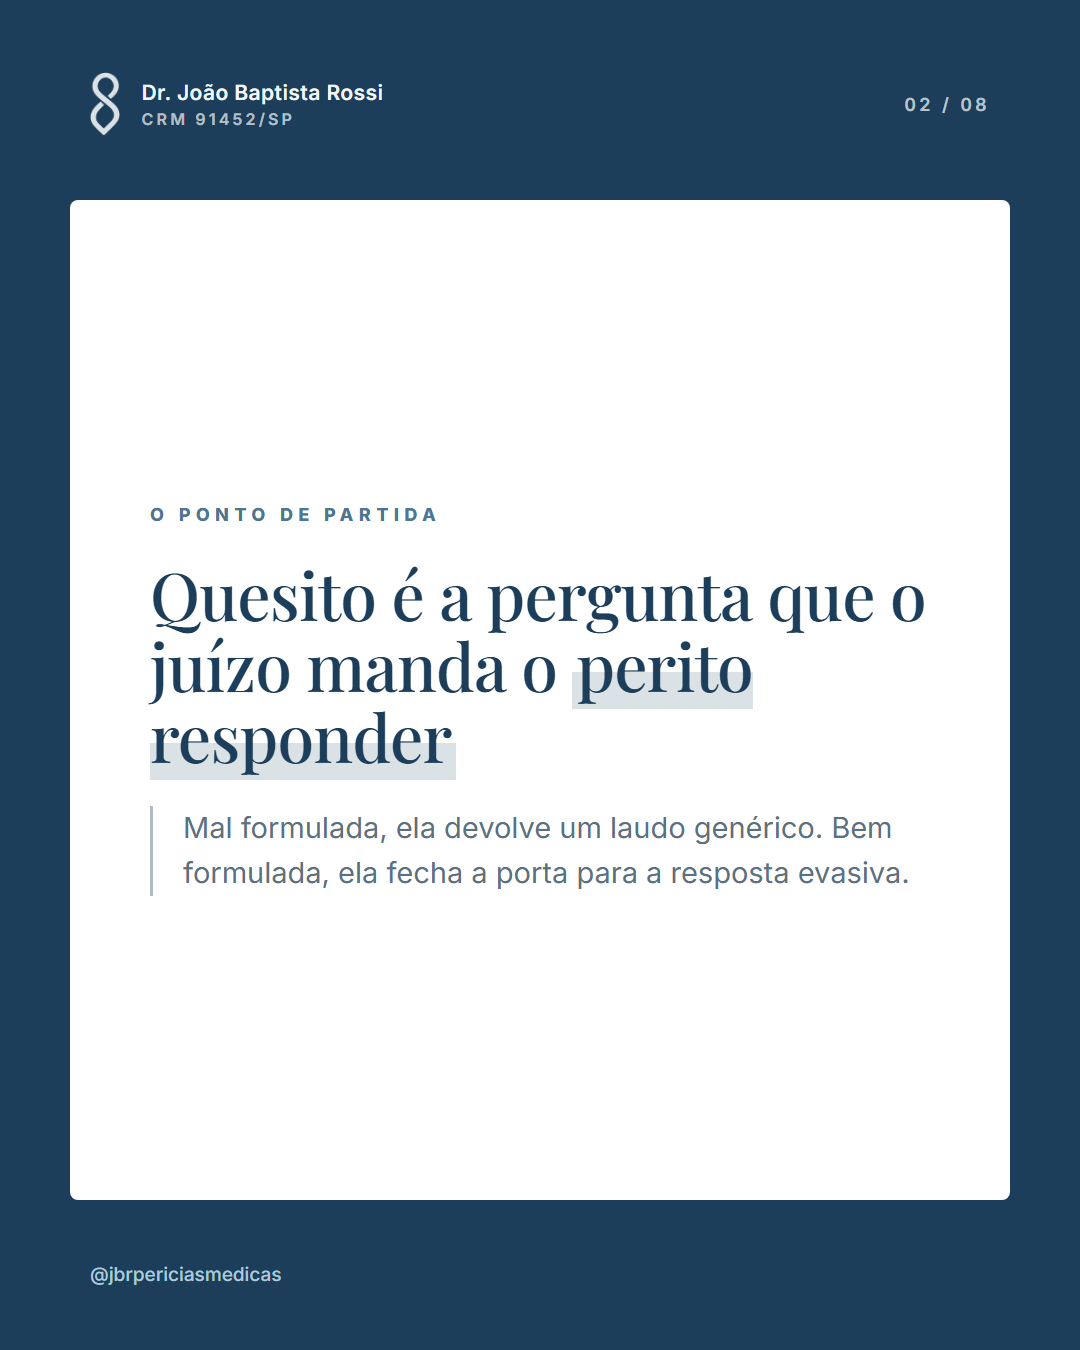
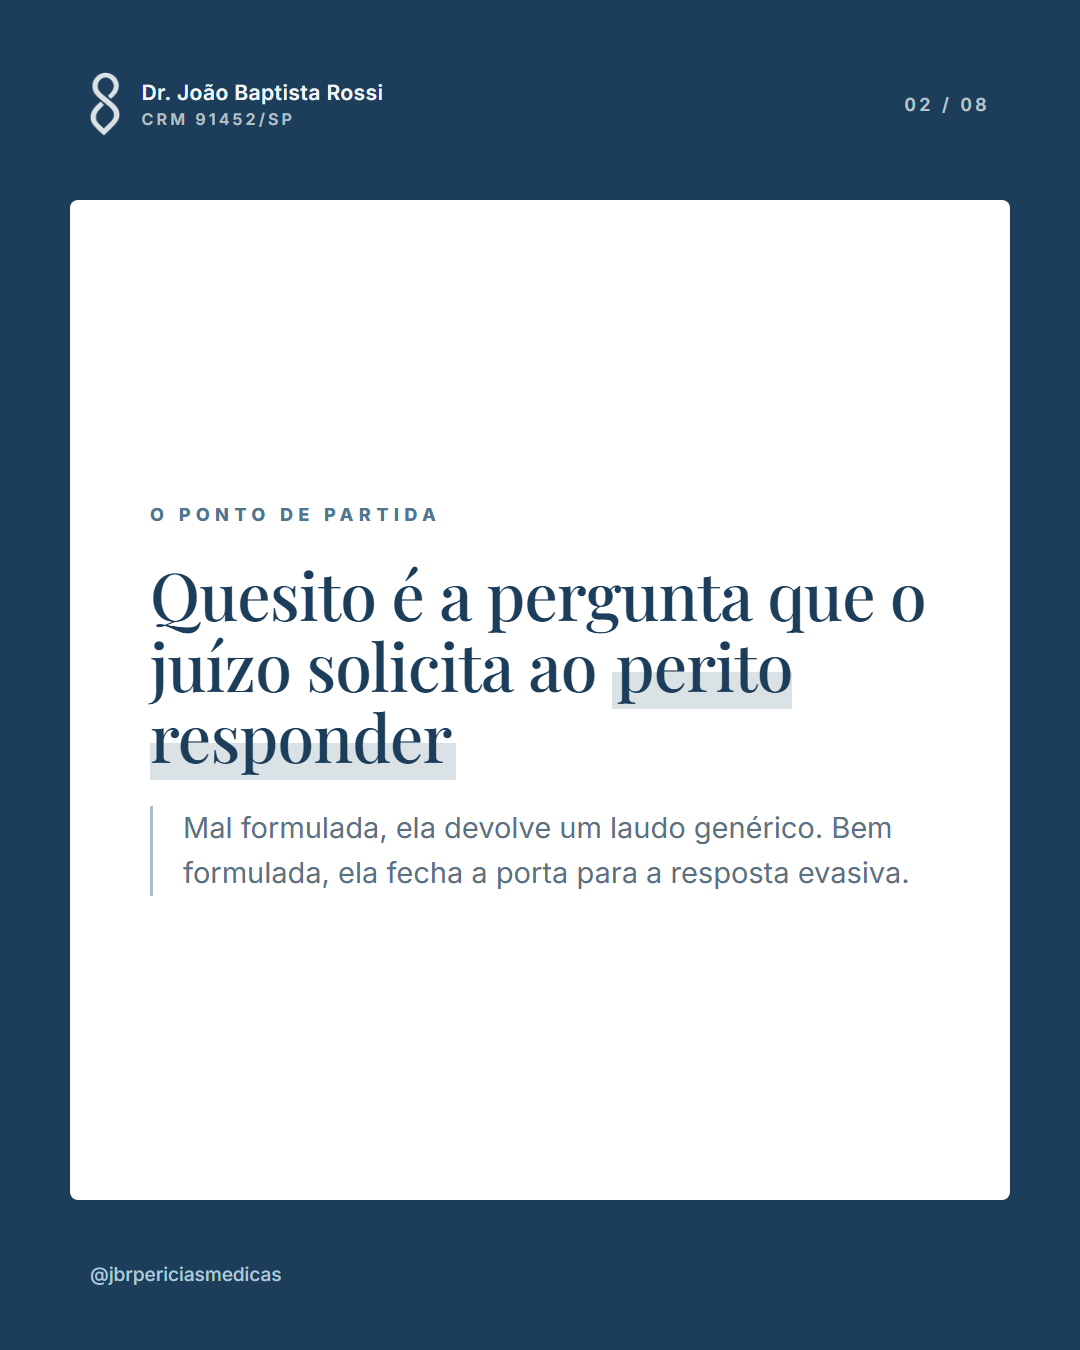
Terça slide 02: 'manda' -> 'solicita ao'

Changed region(s): [[0.275, 0.4667, 0.7333, 0.5289]]

diff --git a/carousels/semana-2026-11-09/terca-v2/carousel.html b/carousels/semana-2026-11-09/terca-v2/carousel.html
@@ -118,7 +118,7 @@
     </div>
     <div class="card">
       <span class="kicker">O ponto de partida</span>
-      <h2>Quesito é a pergunta que o juízo manda o <span class="hl">perito responder</span></h2>
+      <h2>Quesito é a pergunta que o juízo solicita ao <span class="hl">perito responder</span></h2>
       <div class="comment"><div class="vr"></div><p>Mal formulada, ela devolve um laudo genérico. Bem formulada, ela fecha a porta para a resposta evasiva.</p></div>
     </div>
     <span class="handle">@jbrpericiasmedicas</span>
